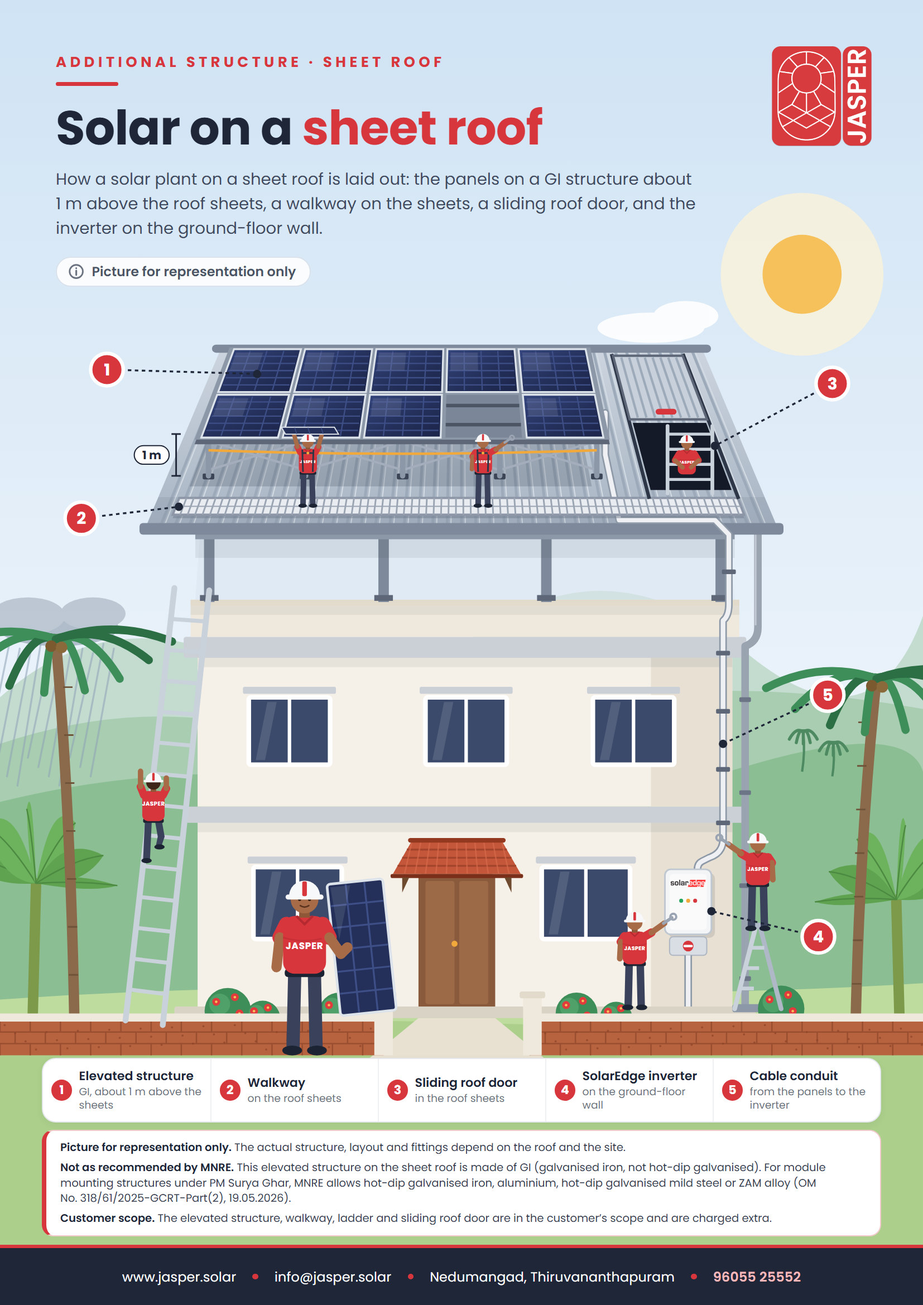
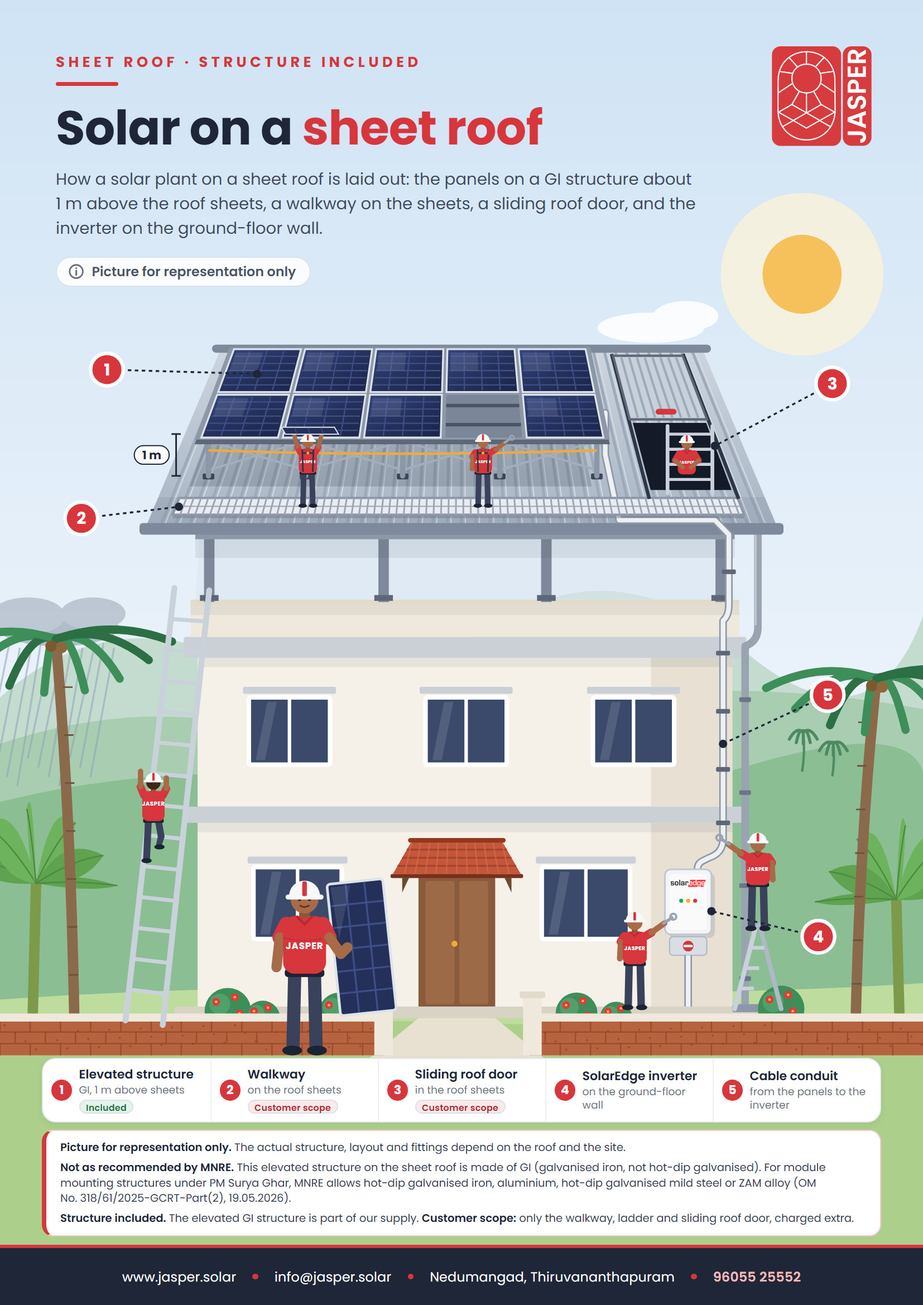
Quotation: sheet-roof structure is our supply; only walkway / ladder / door are customer scope
Owner: "STRUCTURE IS INCLUDED - ONLY ADDITIONAL WORKS ARE CUSTOMER SCOPE -
LADDER/WALKWAY/SLIDING DOOR".

- The Elevated GI structure leaves Additional structure (customer scope)
  for Mounting structure: it prints in the items table with the rest of
  our supply. qm_fix rev 5 moves it on existing catalogues; a new
  catalogue gets it there directly.
- The Mounting structure line is no longer hidden on sheet-roof quotes
  (QM.SHEET_DROP / QM.printed removed). A quotation is a sheet-roof one
  when it has an Additional structure line or the elevated structure
  (QM.isSheetStr). On a sheet roof there is still no StormShield page, and
  the sheet-roof page still prints last.
- The Mounting structure tab warns on a sheet-roof quotation that has no
  elevated structure chosen.
- Sheet-roof page: "Structure included. The elevated GI structure is part
  of our supply. Customer scope: only the walkway, ladder and sliding roof
  door, charged extra." The legend tags each item Included or Customer
  scope; the MNRE GI note stays.

Asset stamp bumped.

diff --git a/tools/qm_sheetroof_page.js b/tools/qm_sheetroof_page.js
@@ -1,7 +1,8 @@
-/* Sheet-roof page for the quotation (assets/quote/page-sheetroof.jpg): printed as the LAST page when a quotation has an Additional
-   structure item (QM.SCOPE; the products' "page" field). Owner, 2026-11-25: Kerala house with a sheet roof, panels on an elevated GI
+/* Sheet-roof page for the quotation (assets/quote/page-sheetroof.jpg): printed as the LAST page when a quotation has the elevated GI
+   structure or an Additional structure item (the products' "page" field). Owner, 2026-11-25: Kerala house with a sheet roof, panels on an elevated GI
    structure ~1 m above the sheets, walkway, sliding roof door, SolarEdge inverter on the ground-floor wall, conduit, workers in Jasper red;
-   no promises; "representation only"; GI not as recommended by MNRE (OM No. 318/61/2025-GCRT-Part(2), 19.05.2026); customer scope.
+   no promises; "representation only"; GI not as recommended by MNRE (OM No. 318/61/2025-GCRT-Part(2), 19.05.2026). Owner, 2026-11-25: "structure is
+   included - only additional works are customer scope - ladder / walkway / sliding door".
    Rebuild:  node tools/qm_sheetroof_page.js   (writes tools/out/sheetroof.html), then render at A4 200 dpi with headless Chrome:
      chrome --headless=new --hide-scrollbars --force-device-scale-factor=2.0831 --window-size=794,1123 --screenshot=tools/out/sheetroof.png tools/out/sheetroof.html
    and save the PNG as a JPEG (quality ~88, 1654 x 2339) over assets/quote/page-sheetroof.jpg. */
@@ -347,9 +348,9 @@ function marker(n, mx, my, tx, ty) {
 }
 
 const LEGEND = [
-  ['Elevated structure', 'GI, about 1&nbsp;m above the sheets'],
-  ['Walkway', 'on the roof sheets'],
-  ['Sliding roof door', 'in the roof sheets'],
+  ['Elevated structure', 'GI, 1&nbsp;m above sheets', 'in'],
+  ['Walkway', 'on the roof sheets', 'cs'],
+  ['Sliding roof door', 'in the roof sheets', 'cs'],
   ['SolarEdge inverter', 'on the ground-floor wall'],
   ['Cable conduit', 'from the panels to the inverter'],
 ];
@@ -363,7 +364,8 @@ const TAGS = [['rain', 'Heavy monsoon'], ['sun', 'Strong sun'], ['drop', 'Humid 
 function page() {
   const m1 = PR(0.12, 0.62), m2 = P(0.04, 0.105), m3 = P(0.95, 0.45), m4 = [592, 778], m5 = [622, 640];
   const markers = marker(1, 92, 318, m1[0], m1[1]) + marker(2, 70, 446, m2[0], m2[1]) + marker(3, 716, 330, m3[0], m3[1]) + marker(4, 704, 806, m4[0] + 20, m4[1] + 6) + marker(5, 712, 598, m5[0], m5[1]);
-  const legend = LEGEND.map((c, i) => `<div><span class="no">${i + 1}</span><span><b>${c[0]}</b><small>${c[1]}</small></span></div>`).join('');
+  const TAG = { in: 'Included', cs: 'Customer scope' };
+  const legend = LEGEND.map((c, i) => `<div><span class="no">${i + 1}</span><span><b>${c[0]}</b><small>${c[1]}</small>${c[2] ? `<i class="tg ${c[2]}">${TAG[c[2]]}</i>` : ''}</span></div>`).join('');
   const info = '<svg viewBox="0 0 20 20" width="15" height="15"><circle cx="10" cy="10" r="7.6" fill="none" stroke="currentColor" stroke-width="1.8"/><path d="M10 9v5M10 6.2v.1" stroke="currentColor" stroke-width="2" stroke-linecap="round"/></svg>';
   return `<!doctype html><html><head><meta charset="utf-8"><style>
 @font-face{font-family:Poppins;font-weight:400;src:url(../../assets/fonts/Poppins-Regular.ttf)}
@@ -390,6 +392,9 @@ h1 span{color:${C.red}}
 .lg .no{flex:none;display:inline-flex;align-items:center;justify-content:center;width:18px;height:18px;border-radius:50%;background:${C.red};color:#fff;font-size:10.5px;font-weight:700}
 .lg b{display:block;font-size:10.6px;line-height:13.5px;font-weight:600;white-space:nowrap}
 .lg small{display:block;font-size:9px;line-height:11.5px;color:#6B7280;margin-top:1px}
+.lg .tg{display:block;width:max-content;height:12px;margin-top:2px;padding:0 5px;border-radius:6px;font-size:7.6px;line-height:12px;font-weight:600;font-style:normal;letter-spacing:.02em}
+.tg.in{background:#E5F4EA;color:#1C7543}
+.tg.cs{background:#FCE9EA;color:#B4232A}
 .nt{position:absolute;left:36px;right:36px;top:972px;background:#fff;border:1px solid #F1C9CB;border-left:4px solid ${C.red};border-radius:10px;padding:8px 12px 8px 12px}
 .nt p{font-size:9.4px;line-height:13.2px;color:#374151}
 .nt p+p{margin-top:4px}
@@ -406,12 +411,12 @@ h1 span{color:${C.red}}
 <g fill="#fff" opacity=".9"><ellipse cx="560" cy="282" rx="46" ry="13"/><ellipse cx="590" cy="272" rx="28" ry="13"/></g>
 ${backdrop()}${scene()}${markers}
 </svg>
-<div class="hd"><div class="k">ADDITIONAL STRUCTURE · SHEET ROOF</div><h1>Solar on a <span>sheet roof</span></h1>
+<div class="hd"><div class="k">SHEET ROOF · STRUCTURE INCLUDED</div><h1>Solar on a <span>sheet roof</span></h1>
 <p class="sub">How a solar plant on a sheet roof is laid out: the panels on a GI structure about 1&nbsp;m above the roof sheets, a walkway on the sheets, a sliding roof door, and the inverter on the ground-floor wall.</p>
 <span class="rep">${info}Picture for representation only</span></div>
 <img class="logo" src="../../assets/quote/jasper-logo.png" alt="">
 <div class="lg">${legend}</div>
-<div class="nt"><p><b>Picture for representation only.</b> The actual structure, layout and fittings depend on the roof and the site.</p><p><b>Not as recommended by MNRE.</b> This elevated structure on the sheet roof is made of GI (galvanised iron, not hot-dip galvanised). For module mounting structures under PM Surya Ghar, MNRE allows hot-dip galvanised iron, aluminium, hot-dip galvanised mild steel or ZAM alloy (OM No.&nbsp;318/61/2025-GCRT-Part(2), 19.05.2026).</p><p><b>Customer scope.</b> The elevated structure, walkway, ladder and sliding roof door are in the customer’s scope and are charged extra.</p></div>
+<div class="nt"><p><b>Picture for representation only.</b> The actual structure, layout and fittings depend on the roof and the site.</p><p><b>Not as recommended by MNRE.</b> This elevated structure on the sheet roof is made of GI (galvanised iron, not hot-dip galvanised). For module mounting structures under PM Surya Ghar, MNRE allows hot-dip galvanised iron, aluminium, hot-dip galvanised mild steel or ZAM alloy (OM No.&nbsp;318/61/2025-GCRT-Part(2), 19.05.2026).</p><p><b>Structure included.</b> The elevated GI structure is part of our supply. <b>Customer scope:</b> only the walkway, ladder and sliding roof door, charged extra.</p></div>
 <div class="ft"><span>www.jasper.solar</span><i></i><span>info@jasper.solar</span><i></i><span>Nedumangad, Thiruvananthapuram</span><i></i><b>96055 25552</b></div>
 </div></body></html>`;
 }

diff --git a/index.html b/index.html
@@ -16,63 +16,63 @@
 <title>Solarize CRM</title>
 <link rel="icon" type="image/png" href="assets/logo.png">
 <link rel="apple-touch-icon" href="assets/icon-apple.png">
-<link rel="stylesheet" href="assets/app.css?v=1795617565">
-<link rel="stylesheet" href="assets/app2.css?v=1795617565">
-<link rel="stylesheet" href="assets/quote.css?v=1795617565">
-<link rel="stylesheet" href="assets/kseb.css?v=1795617565">
+<link rel="stylesheet" href="assets/app.css?v=1795619805">
+<link rel="stylesheet" href="assets/app2.css?v=1795619805">
+<link rel="stylesheet" href="assets/quote.css?v=1795619805">
+<link rel="stylesheet" href="assets/kseb.css?v=1795619805">
 <link rel="stylesheet" href="assets/acc.css?v=1795242568">
 </head>
 <body>
 <div id="app"></div>
-<script src="assets/app.js?v=1795617565"></script>
-<script src="assets/app2.js?v=1795617565"></script>
-<script src="assets/app3.js?v=1795617565"></script>
-<script src="assets/app4.js?v=1795617565"></script>
-<script src="assets/app5.js?v=1795617565"></script>
-<script src="assets/app6.js?v=1795617565"></script>
-<script src="assets/app7.js?v=1795617565"></script>
-<script src="assets/app8.js?v=1795617565"></script>
-<script src="assets/app9.js?v=1795617565"></script>
-<script src="assets/app10.js?v=1795617565"></script>
-<script src="assets/app11.js?v=1795617565"></script>
-<script src="assets/app12.js?v=1795617565"></script>
-<script src="assets/app14.js?v=1795617565"></script>
-<script src="assets/app26.js?v=1795617565"></script>
-<script src="assets/app15.js?v=1795617565"></script>
-<script src="assets/app16.js?v=1795617565"></script>
-<script src="assets/app17.js?v=1795617565"></script>
-<script src="assets/app27.js?v=1795617565"></script>
-<script src="assets/app28.js?v=1795617565"></script>
-<script src="assets/app29.js?v=1795617565"></script>
-<script src="assets/app30.js?v=1795617565"></script>
-<script src="assets/app31.js?v=1795617565"></script>
-<script src="assets/app18.js?v=1795617565"></script>
-<script src="assets/app19.js?v=1795617565"></script>
-<script src="assets/app20.js?v=1795617565"></script>
-<script src="assets/app21.js?v=1795617565"></script>
-<script src="assets/app22.js?v=1795617565"></script>
-<script src="assets/app23.js?v=1795617565"></script>
-<script src="assets/app24.js?v=1795617565"></script>
-<script src="assets/app25.js?v=1795617565"></script>
-<script src="assets/app32.js?v=1795617565"></script>
-<script src="assets/app35.js?v=1795617565"></script>
-<script src="assets/app36.js?v=1795617565"></script>
-<script src="assets/app33.js?v=1795617565"></script>
-<script src="assets/app34.js?v=1795617565"></script>
-<script src="assets/app37.js?v=1795617565"></script>
-<script src="assets/app38.js?v=1795617565"></script>
-<script src="assets/app39.js?v=1795617565"></script>
-<script src="assets/app40.js?v=1795617565"></script>
-<script src="assets/app41.js?v=1795617565"></script>
-<script src="assets/app42.js?v=1795617565"></script>
-<script src="assets/app43.js?v=1795617565"></script>
-<script src="assets/app44.js?v=1795617565"></script>
-<script src="assets/app46.js?v=1795617565"></script>
-<script src="assets/app47.js?v=1795617565"></script>
-<script src="assets/app48.js?v=1795617565"></script>
-<script src="assets/app49.js?v=1795617565"></script>
-<script src="assets/app50.js?v=1795617565"></script>
-<script src="assets/app45.js?v=1795617565"></script>
-<script src="assets/app13.js?v=1795617565"></script>
+<script src="assets/app.js?v=1795619805"></script>
+<script src="assets/app2.js?v=1795619805"></script>
+<script src="assets/app3.js?v=1795619805"></script>
+<script src="assets/app4.js?v=1795619805"></script>
+<script src="assets/app5.js?v=1795619805"></script>
+<script src="assets/app6.js?v=1795619805"></script>
+<script src="assets/app7.js?v=1795619805"></script>
+<script src="assets/app8.js?v=1795619805"></script>
+<script src="assets/app9.js?v=1795619805"></script>
+<script src="assets/app10.js?v=1795619805"></script>
+<script src="assets/app11.js?v=1795619805"></script>
+<script src="assets/app12.js?v=1795619805"></script>
+<script src="assets/app14.js?v=1795619805"></script>
+<script src="assets/app26.js?v=1795619805"></script>
+<script src="assets/app15.js?v=1795619805"></script>
+<script src="assets/app16.js?v=1795619805"></script>
+<script src="assets/app17.js?v=1795619805"></script>
+<script src="assets/app27.js?v=1795619805"></script>
+<script src="assets/app28.js?v=1795619805"></script>
+<script src="assets/app29.js?v=1795619805"></script>
+<script src="assets/app30.js?v=1795619805"></script>
+<script src="assets/app31.js?v=1795619805"></script>
+<script src="assets/app18.js?v=1795619805"></script>
+<script src="assets/app19.js?v=1795619805"></script>
+<script src="assets/app20.js?v=1795619805"></script>
+<script src="assets/app21.js?v=1795619805"></script>
+<script src="assets/app22.js?v=1795619805"></script>
+<script src="assets/app23.js?v=1795619805"></script>
+<script src="assets/app24.js?v=1795619805"></script>
+<script src="assets/app25.js?v=1795619805"></script>
+<script src="assets/app32.js?v=1795619805"></script>
+<script src="assets/app35.js?v=1795619805"></script>
+<script src="assets/app36.js?v=1795619805"></script>
+<script src="assets/app33.js?v=1795619805"></script>
+<script src="assets/app34.js?v=1795619805"></script>
+<script src="assets/app37.js?v=1795619805"></script>
+<script src="assets/app38.js?v=1795619805"></script>
+<script src="assets/app39.js?v=1795619805"></script>
+<script src="assets/app40.js?v=1795619805"></script>
+<script src="assets/app41.js?v=1795619805"></script>
+<script src="assets/app42.js?v=1795619805"></script>
+<script src="assets/app43.js?v=1795619805"></script>
+<script src="assets/app44.js?v=1795619805"></script>
+<script src="assets/app46.js?v=1795619805"></script>
+<script src="assets/app47.js?v=1795619805"></script>
+<script src="assets/app48.js?v=1795619805"></script>
+<script src="assets/app49.js?v=1795619805"></script>
+<script src="assets/app50.js?v=1795619805"></script>
+<script src="assets/app45.js?v=1795619805"></script>
+<script src="assets/app13.js?v=1795619805"></script>
 </body>
 </html>

diff --git a/tests/qm_calc.test.js b/tests/qm_calc.test.js
@@ -84,16 +84,27 @@ test('customer scope (Additional structure): own category after the mounting str
   assert.deepEqual([c.net, c.subsidy, c.loan.loan, c.plantKw, c.dcKwp], [c0.net, c0.subsidy, c0.loan.loan, c0.plantKw, c0.dcKwp], 'price, subsidy and loan unchanged');
 });
 
-test('sheet roof: the Mounting structure line is not printed (no row, warranty or page) while Additional structure lines are in', () => {
-  const P6 = PRODUCTS.concat([{ id: 961, cat: 'addstr', name: 'Elevated GI structure', line: 'x', unit: 'set', qty: 1 }, { id: 962, code: 'str-hdg', cat: 'structure', name: 'Mounting structure', line: '', details: 'Hot-dip galvanised (HDG) steel structure.', unit: 'set', qty: 1, warranty: [{ years: 25, label: 'Structure design life' }], page: 'assets/quote/page-stormshield.jpg' }]);
+test('sheet roof: the structure is our supply (row, warranty, price); only walkway / ladder / door are customer scope; no StormShield', () => {
+  const P6 = PRODUCTS.concat([{ id: 961, cat: 'addstr', name: 'Walkway', line: 'x', unit: 'set', qty: 1 }, { id: 962, code: 'str-hdg', cat: 'structure', name: 'Mounting structure', line: '', details: 'Hot-dip galvanised (HDG) steel structure.', unit: 'set', qty: 1, warranty: [{ years: 25, label: 'Structure design life' }], page: 'assets/quote/page-stormshield.jpg' }]);
   const concrete = Object.assign({}, SETUP2, { items: Object.assign({}, SETUP2.items, { structure: [{ pid: 962 }] }) });
   const sheet = Object.assign({}, concrete, { items: Object.assign({}, concrete.items, { addstr: [{ pid: 961 }] }) });
   const lc = QM.resolve(concrete, P6), ls = QM.resolve(sheet, P6), cc = QM.calc(concrete, lc, SET, R), cs = QM.calc(sheet, ls, SET, R);
   assert.equal(QM.isSheetRoof(lc), false); assert.equal(QM.isSheetRoof(ls), true); assert.equal(cs.sheetRoof, true);
-  assert.equal(QM.printed(lc, 'structure'), true); assert.equal(QM.printed(ls, 'structure'), false); assert.equal(QM.printed(ls, 'install'), true);
-  assert.ok(cc.warranties.some(w => w.label === 'Structure design life')); assert.ok(!cs.warranties.some(w => w.label === 'Structure design life'), 'no structure warranty box on a sheet roof');
-  assert.deepEqual(cc.pages.feature, ['assets/quote/page-stormshield.jpg']); assert.deepEqual(cs.pages.feature, []);
-  assert.equal(ls.structure.length, 1, 'the line itself stays in the quotation');
+  assert.equal(QM.printed, undefined, 'no category is hidden on a sheet roof any more');
+  assert.ok(cc.warranties.some(w => w.label === 'Structure design life')); assert.ok(cs.warranties.some(w => w.label === 'Structure design life'), 'the structure keeps its warranty box on a sheet roof');
+  assert.deepEqual(cc.pages.feature, ['assets/quote/page-stormshield.jpg']); assert.deepEqual(cs.pages.feature, [], 'no StormShield page on a sheet roof, even with a hot-dip structure');
+  assert.equal(ls.structure.length, 1);
+  const elev = { id: 963, code: 'as-elev-gi', cat: 'structure', name: 'Elevated GI structure', line: 'A GI frame about 1 m above the roof sheets.', details: 'GI frame (not hot-dip galvanised).', unit: 'set', qty: 1, page: QM.SHEET_PAGE };
+  const ins = { id: 964, cat: 'install', name: 'Installation', line: '', unit: 'set', qty: 1, page: 'assets/quote/page-inst.jpg' };
+  const P7 = P6.concat([elev, ins]);
+  const only = Object.assign({}, SETUP2, { items: Object.assign({}, SETUP2.items, { structure: [{ pid: 963 }], install: [{ pid: 964 }] }) });
+  const lo = QM.resolve(only, P7), co = QM.calc(only, lo, SET, R);
+  assert.equal(QM.isSheetStr(lo.structure[0]), true); assert.equal(QM.isSheetStr(ls.structure[0]), false, 'the HDG concrete-roof structure is not a sheet-roof one');
+  assert.equal(QM.isSheetRoof(lo), true, 'the elevated GI structure alone makes it a sheet-roof quotation'); assert.equal(co.sheetRoof, true);
+  assert.deepEqual(co.pages.feature, ['assets/quote/page-inst.jpg', QM.SHEET_PAGE], 'the sheet-roof page prints last, after the other pages');
+  const both = Object.assign({}, only, { items: Object.assign({}, only.items, { addstr: [{ pid: 961 }] }) });
+  const fb = QM.calc(both, QM.resolve(both, P7), SET, R).pages.feature;
+  assert.equal(fb.filter(p => p === QM.SHEET_PAGE).length, 1); assert.equal(fb[fb.length - 1], QM.SHEET_PAGE, 'with a walkway too: the sheet-roof page once, last');
 });
 
 test('StormShield page: only with a hot-dip (HDG) structure, never with a welded GI one', () => {

diff --git a/assets/app20.js b/assets/app20.js
@@ -7,12 +7,13 @@ var QM = (function () {
   Q.SCOPE = ['addstr'];
   /* printed row order: optimisers come before the inverter, as in the SolarEdge quotations (warranty boxes keep CATS order) */
   Q.ROWS = ['panels', 'optimiser', 'inverter'].concat(Q.CATS.slice(3).filter(function (c) { return Q.SCOPE.indexOf(c) < 0; }));
-  /* a quotation with any customer-scope line (Additional structure) is a sheet-roof quotation: its Mounting structure (a concrete-roof
-     structure) is not printed at all: no row, warranty or page. The line stays in the quotation and prints again once the Additional
-     structure items are gone (owner, 2026-11-25: "remove mounting structure line for sheet roof quotes") */
-  Q.SHEET_DROP = ['structure'];
-  Q.isSheetRoof = function (lines) { lines = lines || {}; return Q.SCOPE.some(function (c) { return (lines[c] || []).length > 0; }); };
-  Q.printed = function (lines, cat) { return !(Q.SHEET_DROP.indexOf(cat) >= 0 && Q.isSheetRoof(lines)); };
+  /* sheet roof (owner, 2026-11-25: "structure is included - only additional works are customer scope - ladder / walkway / sliding door"):
+     the elevated GI structure is our supply, a Mounting structure line like any other (row, warranty, price); only the walkway, ladder and
+     sliding door (Additional structure, QM.SCOPE) are the customer's. A quotation is a sheet-roof one when it has an Additional structure
+     line or a sheet-roof structure: then no StormShield page, and the sheet-roof page prints last. */
+  Q.SHEET_PAGE = 'assets/quote/page-sheetroof.jpg';
+  Q.isSheetStr = function (l) { return !!l && (l.code === 'as-elev-gi' || /sheet[- ]?roof|elevated/i.test([l.name, l.line, l.details].join(' '))); };
+  Q.isSheetRoof = function (lines) { lines = lines || {}; return Q.SCOPE.some(function (c) { return (lines[c] || []).length > 0; }) || (lines.structure || []).some(Q.isSheetStr); };
   /* main equipment rows = the big brand logos (main1 / main2). Optimisers count too, so a SolarEdge optimiser row shows the same logo size
      as the SolarEdge inverter row next to it (owner, 2026-11-25: "why the SolarEdge logo is different in size") */
   Q.MAIN = ['panels', 'optimiser', 'inverter'];
@@ -168,7 +169,7 @@ var QM = (function () {
     }
 
     var warranties = [], feature = [], scopePages = [];
-    var sheetRoof = Q.isSheetRoof(lines); /* sheet roof: the Mounting structure lines give no warranty box and no page (StormShield) */
+    var sheetRoof = Q.isSheetRoof(lines); /* sheet roof: no StormShield page (owner, 2026-11-25: "remove stormshield page for sheet roof quotes") */
     /* StormShield (Q.HDG_PAGE) is the hot-dip galvanised structure's page: it prints only with a hot-dip line (the HDG product, or wording
        that says hot-dip / HDG), never with a welded or other GI structure (owner, 2026-11-25: "only for hot dip structure") */
     var hotDip = function (l) { return l.code === 'str-hdg' || /hot[- ]?dip|\bHDG\b/i.test([l.name, l.line, l.details].join(' ')); };
@@ -178,12 +179,12 @@ var QM = (function () {
         (lines[cat] || []).forEach(function (l) { if (l.page && scopePages.indexOf(l.page) < 0) scopePages.push(l.page); });
         return;
       }
-      if (!Q.printed(lines, cat)) return;
       (lines[cat] || []).forEach(function (l) {
         (l.warranty || []).forEach(function (w) { warranties.push({ years: str(w.years), label: w.label }); });
-        if (l.page && !(l.page === Q.HDG_PAGE && !hotDip(l)) && feature.indexOf(l.page) < 0) feature.push(l.page);
+        if (l.page && !(l.page === Q.HDG_PAGE && (!hotDip(l) || sheetRoof)) && feature.indexOf(l.page) < 0) feature.push(l.page);
       });
     });
+    if (feature.indexOf(Q.SHEET_PAGE) >= 0 && scopePages.indexOf(Q.SHEET_PAGE) < 0) scopePages.push(Q.SHEET_PAGE); /* the elevated structure's own page: last too */
     scopePages.forEach(function (p) { var i = feature.indexOf(p); if (i >= 0) feature.splice(i, 1); feature.push(p); });
 
     var phase = isThree(firstOf(lines, 'meter')) || (!firstOf(lines, 'meter') && isThree(inv)) ? 'three-phase' : 'single-phase';

diff --git a/assets/app22.js b/assets/app22.js
@@ -288,7 +288,8 @@ function qmkEdItems(c) {
       <span class="qm-cp">${u ? `<img src="${esc(u)}" alt="" loading="lazy">` : ''}</span><span class="qm-cb"><b>${esc(qmkLabel(p))}</b><span class="qm-cd">${esc(p.details || p.line || '')}</span>
       ${w ? `<span class="qm-cw"><i class="i i-shield"></i>${esc(w)}</span>` : ''}${fin ? (+p.rate ? `<span class="qm-cr">₹${QM.inr(p.rate)} per ${esc(p.unit === 'no' ? 'unit' : p.unit)}</span>` : '<span class="qm-cr qm-nr">No rate yet</span>') : ''}${p.hidden ? pill('Hidden', 'y') : ''}</span>
       <span class="qm-ck"><i class="i i-check"></i></span></button>`; };
-  const drop = QM.SHEET_DROP.indexOf(c) >= 0 && QM.isSheetRoof(d.items) && its.length ? `<p class="qm-snap"><i class="i i-alert"></i><span>Not printed on this quotation: it has Additional structure items (sheet roof), so the mounting structure line, its warranty and its page are left out. It prints again if the Additional structure items are removed.</span></p>` : '';
+  const sl = c === 'structure' ? qmkCalc().lines : null; /* a sheet-roof quotation should carry the sheet-roof (elevated GI) structure: it is our supply */
+  const drop = sl && QM.isSheetRoof(sl) && !(sl.structure || []).some(QM.isSheetStr) ? `<p class="qm-snap"><i class="i i-alert"></i><span>This is a sheet-roof quotation (it has Additional structure items). Choose the Elevated GI structure here: the structure is included in our supply. Only the walkway, ladder and sliding door are customer scope.</span></p>` : '';
   const snap = drop + (QMK.snapOld ? `<p class="qm-snap"><i class="i i-alert"></i><span>The preview shows this quotation exactly as it was saved. Products or quotation settings have changed since; changing any item switches the whole quotation to today’s products and settings.</span></p>` : '');
   const add = `<button type="button" class="btn sec sm qm-add" data-a="add" data-k="${c}"><i class="i i-plus"></i> Add another component</button>`;
   const tip = scope ? 'Customer scope: prints in its own “charged extra” box under the items, with no amount, and is not part of the package price. Tap each item the customer needs; tap again to take it out.'
@@ -392,7 +393,7 @@ function qmkSum(c) {
 }
 function qmkGuide(lines) {
   let sum = 0, miss = 0;
-  Object.keys(lines).filter(c => QM.SCOPE.indexOf(c) < 0 && QM.printed(lines, c)).forEach(c => (lines[c] || []).forEach(l => { /* customer scope, and the structure on a sheet roof, are not in the package price */ const p = l.pid != null && qmkProd(l.pid), r = p ? +p.rate || 0 : 0; if (!r) miss++; else sum += r * (+l.qty > 0 ? +l.qty : 1); }));
+  Object.keys(lines).filter(c => QM.SCOPE.indexOf(c) < 0).forEach(c => (lines[c] || []).forEach(l => { /* customer scope is not in the package price */ const p = l.pid != null && qmkProd(l.pid), r = p ? +p.rate || 0 : 0; if (!r) miss++; else sum += r * (+l.qty > 0 ? +l.qty : 1); }));
   if (!sum) return `<i class="i i-coin"></i><span>No rates are filled in for these items yet (an admin adds them under Products &amp; rates). Rates are only a guide: the package price is what prints.</span>`;
   return `<i class="i i-coin"></i><span>Items add up to <b>₹${QM.inr(sum)}</b> at your rates${miss ? ` · ${miss} item${miss === 1 ? ' has' : 's have'} no rate yet` : ''}. Only a guide: the package price is what prints.</span>`;
 }

diff --git a/assets/app21.js b/assets/app21.js
@@ -38,7 +38,7 @@ const qpSplit = s => {
   const k = w.length > 2 && w[0].length < 7 ? 2 : 1;
   return [w.slice(0, k).join(' '), w.slice(k).join(' ')];
 };
-const qpCats = lines => QM.ROWS.concat(Object.keys(lines || {}).filter(k => QM.ROWS.indexOf(k) < 0 && QM.SCOPE.indexOf(k) < 0)).filter(k => QM.printed(lines, k)); /* items-table rows: customer scope goes in its own box; no Mounting structure on a sheet roof */
+const qpCats = lines => QM.ROWS.concat(Object.keys(lines || {}).filter(k => QM.ROWS.indexOf(k) < 0 && QM.SCOPE.indexOf(k) < 0)); /* items-table rows: customer scope goes in its own box */
 const qpKv = rows => '<table class="qp-kv" data-nofit="1">' + rows.map(([k, v]) => `<tr><th>${esc(k)}</th><td>${esc(qpVal(v))}</td></tr>`).join('') + '</table>';
 const qpCard = (title, body, cls) => `<div class="qp-card${cls ? ' ' + cls : ''}"><div class="qp-ct"><span class="qp-tick"></span>${esc(title)}</div>${body}</div>`;
 const qpSec = (title, cls) => `<div class="qp-sec${cls ? ' ' + cls : ''}"><span class="qp-dash"></span>${esc(title)}</div>`;

diff --git a/tests/qm_api_test.php b/tests/qm_api_test.php
@@ -112,10 +112,13 @@ $ck = array_column($boot['cats'] ?? [], 0);
 chk(array_search('addstr', $ck, true) === array_search('structure', $ck, true) + 1 && ($boot['cats'][array_search('addstr', $ck, true)][1] ?? '') === 'Additional structure', 'Additional structure tab right after Mounting structure');
 $as = array_values(array_filter($boot['products'] ?? [], fn($p) => $p['cat'] === 'addstr'));
 usort($as, fn($x, $y) => $x['sort'] <=> $y['sort'] ?: $x['id'] <=> $y['id']);
-chk(array_column($as, 'code') === ['as-elev-gi', 'as-walkway', 'as-ladder', 'as-door'] && array_column($as, 'name') === ['Elevated GI structure', 'Walkway', 'Ladder', 'Sliding door']
+chk(array_column($as, 'code') === ['as-walkway', 'as-ladder', 'as-door'] && array_column($as, 'name') === ['Walkway', 'Ladder', 'Sliding door']
   && !array_filter($as, fn($p) => $p['is_default'] || $p['hidden'] || $p['warranty']), 'rev 7: walkway, ladder and sliding door under Additional structure (not default, no warranty)');
 chk(array_unique(array_column($as, 'page')) === ['assets/quote/page-sheetroof.jpg'] && is_file(__DIR__ . '/../assets/quote/page-sheetroof.jpg'), 'Additional structure items carry the sheet-roof page');
-chk(array_column($as, 'picture') === ['assets/quote/pic-elevated.png', 'assets/quote/pic-walkway.png', 'assets/quote/pic-ladder.png', 'assets/quote/pic-door.png']
+$eg = $byCode($boot, 'as-elev-gi');
+chk(count($eg) === 1 && ($eg[0]['cat'] ?? '') === 'structure' && ($eg[0]['picture'] ?? '') === 'assets/quote/pic-elevated.png' && ($eg[0]['page'] ?? '') === 'assets/quote/page-sheetroof.jpg',
+  'the elevated GI structure is our supply: under Mounting structure, with its picture and the sheet-roof page');
+chk(array_column($as, 'picture') === ['assets/quote/pic-walkway.png', 'assets/quote/pic-ladder.png', 'assets/quote/pic-door.png']
   && !array_filter($as, fn($p) => !is_file(__DIR__ . '/../' . $p['picture'])), 'Additional structure items have their pictures');
 if ($dbPath && is_file($dbPath)) { /* a catalogue that got the rev 7 products before they had pictures (the live site): qm_fix rev 2 adds them, an admin's own picture stays */
   $pdo = new PDO('sqlite:' . $dbPath);
@@ -127,14 +130,21 @@ if ($dbPath && is_file($dbPath)) { /* a catalogue that got the rev 7 products be
   chk(($byCode($b5, 'as-walkway')[0]['page'] ?? '') === 'assets/quote/page-sheetroof.jpg' && ($byCode($b5, 'as-ladder')[0]['page'] ?? '') === 'assets/quote/page-sheetroof.jpg'
     && ($byCode($b5, 'as-door')[0]['page'] ?? '') === 'qm-89abcdef0123456789abcdef.jpg', 'older catalogue: sheet-roof page added where empty, own page kept');
   $pdo = new PDO('sqlite:' . $dbPath); $pdo->exec("UPDATE qm_products SET picture='assets/quote/pic-door.png', page='assets/quote/page-sheetroof.jpg' WHERE code='as-door'"); $pdo = null;
-  /* a catalogue from before rev 8 (the live site): the elevated GI structure is added once, then moved to the front of the tab */
+  /* a catalogue from rev 8 (the live site): the elevated GI structure sits first in Additional structure; fix rev 5 moves it to Mounting structure */
+  $pdo = new PDO('sqlite:' . $dbPath);
+  $pdo->exec("UPDATE qm_products SET cat='addstr', sort=-5 WHERE code='as-elev-gi'"); $pdo->exec("UPDATE settings SET v='4' WHERE k='qm_fix_rev'"); $pdo = null;
+  $b7 = call($admin, 'qm', 'boot'); $st7 = array_values(array_filter($b7['products'] ?? [], fn($p) => $p['cat'] === 'structure'));
+  usort($st7, fn($x, $y) => $x['sort'] <=> $y['sort'] ?: $x['id'] <=> $y['id']);
+  chk(($byCode($b7, 'as-elev-gi')[0]['cat'] ?? '') === 'structure' && (end($st7)['code'] ?? '') === 'as-elev-gi' && !array_filter($b7['products'] ?? [], fn($p) => $p['cat'] === 'addstr' && $p['code'] === 'as-elev-gi'),
+    'older catalogue: the elevated GI structure moves from Additional structure to the end of Mounting structure');
+  /* a catalogue from before rev 8: the elevated GI structure is added once, straight into Mounting structure */
   $pdo = new PDO('sqlite:' . $dbPath);
   $pdo->exec("DELETE FROM qm_products WHERE code='as-elev-gi'"); $pdo->exec("UPDATE settings SET v='7' WHERE k='qm_added_rev'"); $pdo->exec("UPDATE settings SET v='3' WHERE k='qm_fix_rev'"); $pdo = null;
   $b6 = call($admin, 'qm', 'boot');
   $as6 = array_values(array_filter($b6['products'] ?? [], fn($p) => $p['cat'] === 'addstr'));
   usort($as6, fn($x, $y) => $x['sort'] <=> $y['sort'] ?: $x['id'] <=> $y['id']);
-  chk(array_column($as6, 'code') === ['as-elev-gi', 'as-walkway', 'as-ladder', 'as-door'] && count($byCode($b6, 'as-elev-gi')) === 1
-    && ($byCode($b6, 'as-elev-gi')[0]['page'] ?? '') === 'assets/quote/page-sheetroof.jpg', 'older catalogue: elevated GI structure added once, first in Additional structure');
+  chk(array_column($as6, 'code') === ['as-walkway', 'as-ladder', 'as-door'] && count($byCode($b6, 'as-elev-gi')) === 1 && ($byCode($b6, 'as-elev-gi')[0]['cat'] ?? '') === 'structure'
+    && ($byCode($b6, 'as-elev-gi')[0]['page'] ?? '') === 'assets/quote/page-sheetroof.jpg', 'older catalogue: elevated GI structure added once, under Mounting structure');
 }
 chk(($boot['settings']['kseb']['reg_per_kw'] ?? 0) === 1000 && ($boot['settings']['loan']['rate'] ?? 0) == 6.0, 'defaults');
 chk(($boot['settings']['kseb']['reg_gst'] ?? null) === 18 && ($boot['settings']['kseb']['reg_label'] ?? '') === 'Registration fee (₹1,000 per kW + 18% GST, 80% refundable)', 'registration fee carries 18% GST by default');

diff --git a/api/qm_seed.php b/api/qm_seed.php
@@ -409,9 +409,11 @@ function qm_added(): array {
         'brands' => [['label' => '', 'logos' => ['assets/quote/logo-sungrow.png']]]]], [3, 4, 5, 6]),
     /* Rev 7 (owner, 2026-11-25): "Additional structure" for a sheet roof: walkway / ladder / sliding door, customer scope, charged extra.
        No rate, picture or warranty: the quotation lists them in the customer-scope box without an amount (owner chose "No amount"). */
-    /* Rev 8 (owner, 2026-11-25: "yes, add it"): the elevated GI structure itself as a customer-scope line, first in the tab (qm_fix rev 4 on older catalogues).
+    /* Rev 8 (owner, 2026-11-25: "yes, add it"): the elevated GI structure for a sheet roof. First a customer-scope line; then (owner, 2026-11-25:
+       "structure is included - only additional works are customer scope - ladder / walkway / sliding door") our supply, under Mounting
+       structure (qm_fix rev 5 moves it on older catalogues).
        GI that is not hot-dip galvanised is not among the MMS materials MNRE allows (OM No. 318/61/2025-GCRT-Part(2), 19.05.2026), as the sheet-roof page says. */
-    ['as-elev-gi', 'Elevated GI structure (sheet roof)', 'addstr', 'Elevated GI structure', 'A GI frame that holds the panels about 1 m above the roof sheets.',
+    ['as-elev-gi', 'Elevated GI structure (sheet roof)', 'structure', 'Elevated GI structure', 'A GI frame that holds the panels about 1 m above the roof sheets.',
       'GI (galvanised iron, not hot-dip galvanised) frame on legs fixed to the roof purlins, about 1 m above the sheets. Not among the module mounting structure materials recommended by MNRE. Size as per site.',
       ['unit' => 'set', 'qty' => 1, 'picture' => 'assets/quote/pic-elevated.png', 'page' => 'assets/quote/page-sheetroof.jpg']],
     ['as-walkway', 'Walkway (sheet roof)', 'addstr', 'Walkway', 'A safe path on the sheet roof, so the panels can be reached and cleaned without stepping on the sheets.',
@@ -442,7 +444,7 @@ function qm_add_new(PDO $db): void {
 /* Changes to products that are ALREADY in a catalogue (qm_added() only inserts new ones). Runs from qm boot; each rev runs once per
    database (settings qm_fix_rev) and only adds what is missing, so an admin's own edits stay. Add a fix = a new `if ($have < N)`
    block and bump QM_FIX_REV. Saved quotations keep printing what they were saved with (their snapshot). */
-const QM_FIX_REV = 4;
+const QM_FIX_REV = 5;
 function qm_fix(PDO $db): void {
   $r = $db->query("SELECT v FROM settings WHERE k='qm_fix_rev'")->fetchColumn();
   $have = $r === false ? 0 : (int)json_decode((string)$r, true);
@@ -473,7 +475,12 @@ function qm_fix(PDO $db): void {
     }
     if ($have < 4) { /* rev 4: the elevated GI structure (added by qm_added rev 8 at the end of the tab) moves to the front of Additional structure */
       $min = $db->query("SELECT MIN(sort) FROM qm_products WHERE cat='addstr' AND code<>'as-elev-gi'")->fetchColumn();
-      if ($min !== false && $min !== null) $db->prepare("UPDATE qm_products SET sort=? WHERE code='as-elev-gi' AND sort>?")->execute([(int)$min - 1, (int)$min - 1]);
+      if ($min !== false && $min !== null) $db->prepare("UPDATE qm_products SET sort=? WHERE code='as-elev-gi' AND cat='addstr' AND sort>?")->execute([(int)$min - 1, (int)$min - 1]);
+    }
+    if ($have < 5) { /* rev 5 (owner, 2026-11-25: "structure is included - only additional works are customer scope"): the elevated GI structure
+      leaves Additional structure (customer scope) for Mounting structure (our supply), last in that tab */
+      $max = (int)$db->query("SELECT COALESCE(MAX(sort),0) FROM qm_products WHERE cat='structure'")->fetchColumn();
+      $db->prepare("UPDATE qm_products SET cat='structure', sort=? WHERE code='as-elev-gi' AND cat='addstr'")->execute([$max + 1]);
     }
     $db->prepare('INSERT INTO settings(k,v) VALUES(?,?) ON CONFLICT(k) DO UPDATE SET v=excluded.v')->execute(['qm_fix_rev', json_encode(QM_FIX_REV)]);
     $db->commit();
